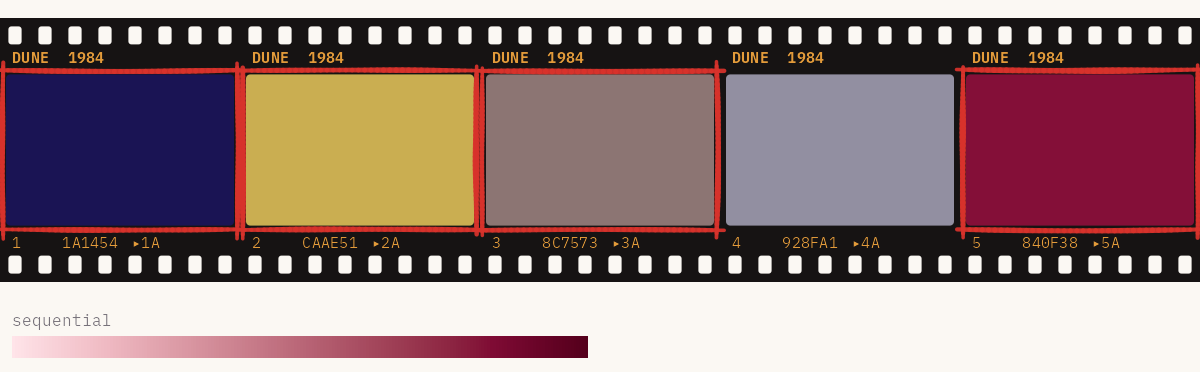
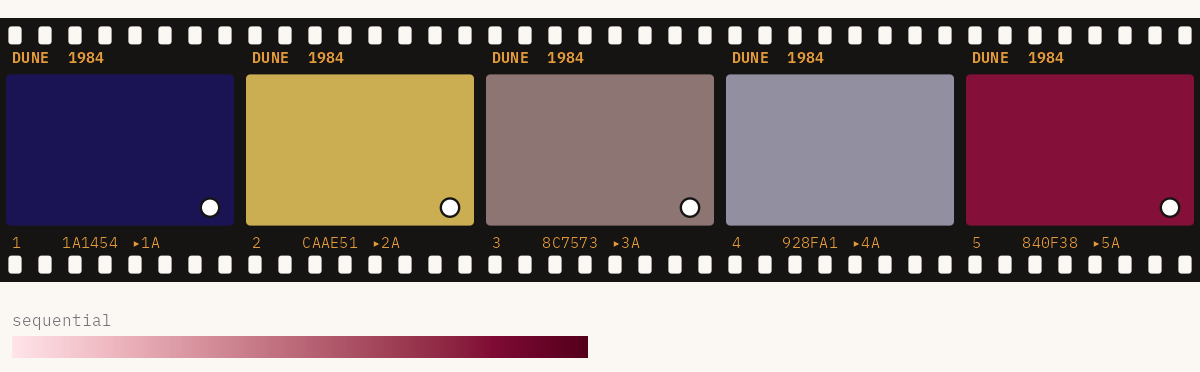
Mark colour-blind-safe frames with a dot instead of a red box
The red marker boxes were hard to see. A white dot in the bottom-right
corner of each safe frame shows on light and dark colours alike.

Claude-Session: https://claude.ai/code/session_01BL4qFAtz49CSz4vjU8exbg

Changed region(s): [[0.0, 0.1774, 0.6167, 0.6505], [0.7708, 0.1774, 1.0, 0.6505]]

diff --git a/docs/index.html b/docs/index.html
@@ -106,13 +106,13 @@
 <h3 id="blue-velvet-1986">
 <a href="https://en.wikipedia.org/wiki/Blue_Velvet_(film)" class="external-link">Blue Velvet</a> (1986)<a class="anchor" aria-label="anchor" href="#blue-velvet-1986"></a>
 </h3>
-<p><code>"blue_velvet"</code> · Boxed frames are colour-blind safe: <code>"blue_velvet_safe"</code>.</p>
+<p><code>"blue_velvet"</code> · Frames with a dot are colour-blind safe: <code>"blue_velvet_safe"</code>.</p>
 <table class="table"><tr>
 <td width="18%">
 <a href="https://en.wikipedia.org/wiki/Blue_Velvet_(film)" class="external-link"><img src="https://upload.wikimedia.org/wikipedia/en/f/fd/Blue_Velvet_%281986%29.png" alt="Blue Velvet poster" width="100%"></a>
 </td>
 <td>
-<img src="reference/figures/card-blue_velvet.png" alt="Blue Velvet palette as a strip of film: five colour frames, the colour-blind-safe ones boxed in red marker, sequential and diverging ramps." width="100%">
+<img src="reference/figures/card-blue_velvet.png" alt="Blue Velvet palette as a strip of film: five colour frames, the colour-blind-safe ones marked with a dot, sequential and diverging ramps." width="100%">
 </td>
 </tr></table>
 <p><br></p>
@@ -121,13 +121,13 @@
 <h3 id="dune-1984">
 <a href="https://en.wikipedia.org/wiki/Dune_(1984_film)" class="external-link">Dune</a> (1984)<a class="anchor" aria-label="anchor" href="#dune-1984"></a>
 </h3>
-<p><code>"dune"</code> · Boxed frames are colour-blind safe: <code>"dune_safe"</code>.</p>
+<p><code>"dune"</code> · Frames with a dot are colour-blind safe: <code>"dune_safe"</code>.</p>
 <table class="table"><tr>
 <td width="18%">
 <a href="https://en.wikipedia.org/wiki/Dune_(1984_film)" class="external-link"><img src="https://upload.wikimedia.org/wikipedia/en/5/51/Dune_1984_Poster.jpg" alt="Dune (1984) poster" width="100%"></a>
 </td>
 <td>
-<img src="reference/figures/card-dune.png" alt="Dune palette as a strip of film: five colour frames, the colour-blind-safe ones boxed in red marker and a sequential ramp." width="100%">
+<img src="reference/figures/card-dune.png" alt="Dune palette as a strip of film: five colour frames, the colour-blind-safe ones marked with a dot and a sequential ramp." width="100%">
 </td>
 </tr></table>
 <p><br></p>
@@ -151,13 +151,13 @@
 <h3 id="mulholland-drive-2001">
 <a href="https://en.wikipedia.org/wiki/Mulholland_Drive_(film)" class="external-link">Mulholland Drive</a> (2001)<a class="anchor" aria-label="anchor" href="#mulholland-drive-2001"></a>
 </h3>
-<p><code>"mulholland_drive"</code> · Boxed frames are colour-blind safe: <code>"mulholland_drive_safe"</code>.</p>
+<p><code>"mulholland_drive"</code> · Frames with a dot are colour-blind safe: <code>"mulholland_drive_safe"</code>.</p>
 <table class="table"><tr>
 <td width="18%">
 <a href="https://en.wikipedia.org/wiki/Mulholland_Drive_(film)" class="external-link"><img src="https://upload.wikimedia.org/wikipedia/en/0/0f/Mulholland.png" alt="Mulholland Drive poster" width="100%"></a>
 </td>
 <td>
-<img src="reference/figures/card-mulholland_drive.png" alt="Mulholland Drive palette as a strip of film: five colour frames, the colour-blind-safe ones boxed in red marker, sequential and diverging ramps." width="100%">
+<img src="reference/figures/card-mulholland_drive.png" alt="Mulholland Drive palette as a strip of film: five colour frames, the colour-blind-safe ones marked with a dot, sequential and diverging ramps." width="100%">
 </td>
 </tr></table>
 <p><br></p>
@@ -166,13 +166,13 @@
 <h3 id="twin-peaks-199091">
 <a href="https://en.wikipedia.org/wiki/Twin_Peaks" class="external-link">Twin Peaks</a> (1990–91)<a class="anchor" aria-label="anchor" href="#twin-peaks-199091"></a>
 </h3>
-<p><code>"twin_peaks"</code> · Boxed frames are colour-blind safe: <code>"twin_peaks_safe"</code>. The poster is for <em>Fire Walk with Me</em> (1992), the film.</p>
+<p><code>"twin_peaks"</code> · Frames with a dot are colour-blind safe: <code>"twin_peaks_safe"</code>. The poster is for <em>Fire Walk with Me</em> (1992), the film.</p>
 <table class="table"><tr>
 <td width="18%">
 <a href="https://en.wikipedia.org/wiki/Twin_Peaks" class="external-link"><img src="https://upload.wikimedia.org/wikipedia/en/3/3d/Twin_Peaks_-_Fire_Walk_with_Me.png" alt="Twin Peaks: Fire Walk with Me poster" width="100%"></a>
 </td>
 <td>
-<img src="reference/figures/card-twin_peaks.png" alt="Twin Peaks palette as a strip of film: five colour frames, the colour-blind-safe ones boxed in red marker, sequential and diverging ramps." width="100%">
+<img src="reference/figures/card-twin_peaks.png" alt="Twin Peaks palette as a strip of film: five colour frames, the colour-blind-safe ones marked with a dot, sequential and diverging ramps." width="100%">
 </td>
 </tr></table>
 <p><br></p>
@@ -181,13 +181,13 @@
 <h3 id="wild-at-heart-1990">
 <a href="https://en.wikipedia.org/wiki/Wild_at_Heart_(film)" class="external-link">Wild at Heart</a> (1990)<a class="anchor" aria-label="anchor" href="#wild-at-heart-1990"></a>
 </h3>
-<p><code>"wild_at_heart"</code> · Boxed frames are colour-blind safe: <code>"wild_at_heart_safe"</code>.</p>
+<p><code>"wild_at_heart"</code> · Frames with a dot are colour-blind safe: <code>"wild_at_heart_safe"</code>.</p>
 <table class="table"><tr>
 <td width="18%">
 <a href="https://en.wikipedia.org/wiki/Wild_at_Heart_(film)" class="external-link"><img src="https://upload.wikimedia.org/wikipedia/en/6/60/Wild_at_Heart_film_poster.jpg" alt="Wild at Heart poster" width="100%"></a>
 </td>
 <td>
-<img src="reference/figures/card-wild_at_heart.png" alt="Wild at Heart palette as a strip of film: five colour frames, the colour-blind-safe ones boxed in red marker, sequential and diverging ramps." width="100%">
+<img src="reference/figures/card-wild_at_heart.png" alt="Wild at Heart palette as a strip of film: five colour frames, the colour-blind-safe ones marked with a dot, sequential and diverging ramps." width="100%">
 </td>
 </tr></table>
 <p><br></p>
@@ -196,7 +196,7 @@
 <div class="section level2">
 <h2 id="colour-blindness">Colour blindness<a class="anchor" aria-label="anchor" href="#colour-blindness"></a>
 </h2>
-<p>Only Lost Highway keeps all five colours apart for people with red-green colour blindness. The other films have a <code>_safe</code> version that keeps the three or four colours that do, boxed in red on each film strip. <code>lynch_accessibility</code> has the numbers.</p>
+<p>Only Lost Highway keeps all five colours apart for people with red-green colour blindness. The other films have a <code>_safe</code> version that keeps the three or four colours that do, marked with a dot on each film strip. <code>lynch_accessibility</code> has the numbers.</p>
 <div class="sourceCode" id="cb6"><pre class="downlit sourceCode r">
 <code class="sourceCode R"><span><span class="fu"><a href="reference/lynch_palette.html">lynch_palette</a></span><span class="op">(</span><span class="st">"twin_peaks_safe"</span><span class="op">)</span></span>
 <span><span class="va">lynch_accessibility</span></span></code></pre></div>

diff --git a/README.md b/README.md
@@ -68,12 +68,12 @@ Most palettes were sampled from stills collected in [this Pinterest pin](https:/
 
 ### [Blue Velvet](https://en.wikipedia.org/wiki/Blue_Velvet_(film)) (1986)
 
-`"blue_velvet"` · Boxed frames are colour-blind safe: `"blue_velvet_safe"`.
+`"blue_velvet"` · Frames with a dot are colour-blind safe: `"blue_velvet_safe"`.
 
 <table>
 <tr>
 <td width="18%"><a href="https://en.wikipedia.org/wiki/Blue_Velvet_(film)"><img src="https://upload.wikimedia.org/wikipedia/en/f/fd/Blue_Velvet_%281986%29.png" alt="Blue Velvet poster" width="100%" /></a></td>
-<td><img src="man/figures/card-blue_velvet.png" alt="Blue Velvet palette as a strip of film: five colour frames, the colour-blind-safe ones boxed in red marker, sequential and diverging ramps." width="100%" /></td>
+<td><img src="man/figures/card-blue_velvet.png" alt="Blue Velvet palette as a strip of film: five colour frames, the colour-blind-safe ones marked with a dot, sequential and diverging ramps." width="100%" /></td>
 </tr>
 </table>
 
@@ -81,12 +81,12 @@ Most palettes were sampled from stills collected in [this Pinterest pin](https:/
 
 ### [Dune](https://en.wikipedia.org/wiki/Dune_(1984_film)) (1984)
 
-`"dune"` · Boxed frames are colour-blind safe: `"dune_safe"`.
+`"dune"` · Frames with a dot are colour-blind safe: `"dune_safe"`.
 
 <table>
 <tr>
 <td width="18%"><a href="https://en.wikipedia.org/wiki/Dune_(1984_film)"><img src="https://upload.wikimedia.org/wikipedia/en/5/51/Dune_1984_Poster.jpg" alt="Dune (1984) poster" width="100%" /></a></td>
-<td><img src="man/figures/card-dune.png" alt="Dune palette as a strip of film: five colour frames, the colour-blind-safe ones boxed in red marker and a sequential ramp." width="100%" /></td>
+<td><img src="man/figures/card-dune.png" alt="Dune palette as a strip of film: five colour frames, the colour-blind-safe ones marked with a dot and a sequential ramp." width="100%" /></td>
 </tr>
 </table>
 
@@ -107,12 +107,12 @@ Most palettes were sampled from stills collected in [this Pinterest pin](https:/
 
 ### [Mulholland Drive](https://en.wikipedia.org/wiki/Mulholland_Drive_(film)) (2001)
 
-`"mulholland_drive"` · Boxed frames are colour-blind safe: `"mulholland_drive_safe"`.
+`"mulholland_drive"` · Frames with a dot are colour-blind safe: `"mulholland_drive_safe"`.
 
 <table>
 <tr>
 <td width="18%"><a href="https://en.wikipedia.org/wiki/Mulholland_Drive_(film)"><img src="https://upload.wikimedia.org/wikipedia/en/0/0f/Mulholland.png" alt="Mulholland Drive poster" width="100%" /></a></td>
-<td><img src="man/figures/card-mulholland_drive.png" alt="Mulholland Drive palette as a strip of film: five colour frames, the colour-blind-safe ones boxed in red marker, sequential and diverging ramps." width="100%" /></td>
+<td><img src="man/figures/card-mulholland_drive.png" alt="Mulholland Drive palette as a strip of film: five colour frames, the colour-blind-safe ones marked with a dot, sequential and diverging ramps." width="100%" /></td>
 </tr>
 </table>
 
@@ -120,12 +120,12 @@ Most palettes were sampled from stills collected in [this Pinterest pin](https:/
 
 ### [Twin Peaks](https://en.wikipedia.org/wiki/Twin_Peaks) (1990–91)
 
-`"twin_peaks"` · Boxed frames are colour-blind safe: `"twin_peaks_safe"`. The poster is for *Fire Walk with Me* (1992), the film.
+`"twin_peaks"` · Frames with a dot are colour-blind safe: `"twin_peaks_safe"`. The poster is for *Fire Walk with Me* (1992), the film.
 
 <table>
 <tr>
 <td width="18%"><a href="https://en.wikipedia.org/wiki/Twin_Peaks"><img src="https://upload.wikimedia.org/wikipedia/en/3/3d/Twin_Peaks_-_Fire_Walk_with_Me.png" alt="Twin Peaks: Fire Walk with Me poster" width="100%" /></a></td>
-<td><img src="man/figures/card-twin_peaks.png" alt="Twin Peaks palette as a strip of film: five colour frames, the colour-blind-safe ones boxed in red marker, sequential and diverging ramps." width="100%" /></td>
+<td><img src="man/figures/card-twin_peaks.png" alt="Twin Peaks palette as a strip of film: five colour frames, the colour-blind-safe ones marked with a dot, sequential and diverging ramps." width="100%" /></td>
 </tr>
 </table>
 
@@ -133,12 +133,12 @@ Most palettes were sampled from stills collected in [this Pinterest pin](https:/
 
 ### [Wild at Heart](https://en.wikipedia.org/wiki/Wild_at_Heart_(film)) (1990)
 
-`"wild_at_heart"` · Boxed frames are colour-blind safe: `"wild_at_heart_safe"`.
+`"wild_at_heart"` · Frames with a dot are colour-blind safe: `"wild_at_heart_safe"`.
 
 <table>
 <tr>
 <td width="18%"><a href="https://en.wikipedia.org/wiki/Wild_at_Heart_(film)"><img src="https://upload.wikimedia.org/wikipedia/en/6/60/Wild_at_Heart_film_poster.jpg" alt="Wild at Heart poster" width="100%" /></a></td>
-<td><img src="man/figures/card-wild_at_heart.png" alt="Wild at Heart palette as a strip of film: five colour frames, the colour-blind-safe ones boxed in red marker, sequential and diverging ramps." width="100%" /></td>
+<td><img src="man/figures/card-wild_at_heart.png" alt="Wild at Heart palette as a strip of film: five colour frames, the colour-blind-safe ones marked with a dot, sequential and diverging ramps." width="100%" /></td>
 </tr>
 </table>
 
@@ -146,7 +146,7 @@ Most palettes were sampled from stills collected in [this Pinterest pin](https:/
 
 ## Colour blindness
 
-Only Lost Highway keeps all five colours apart for people with red-green colour blindness. The other films have a `_safe` version that keeps the three or four colours that do, boxed in red on each film strip. `lynch_accessibility` has the numbers.
+Only Lost Highway keeps all five colours apart for people with red-green colour blindness. The other films have a `_safe` version that keeps the three or four colours that do, marked with a dot on each film strip. `lynch_accessibility` has the numbers.
 
 ``` r
 lynch_palette("twin_peaks_safe")
